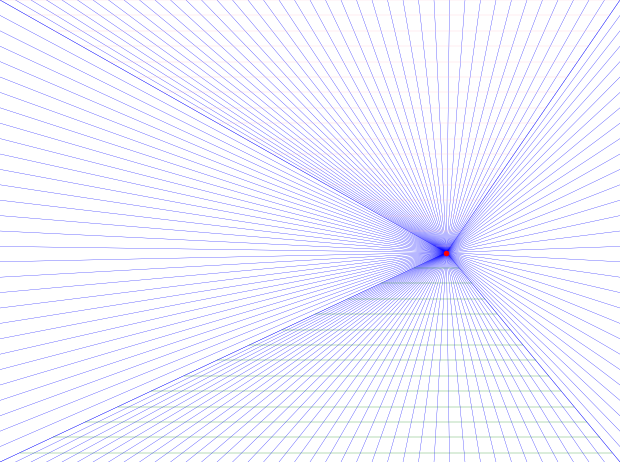
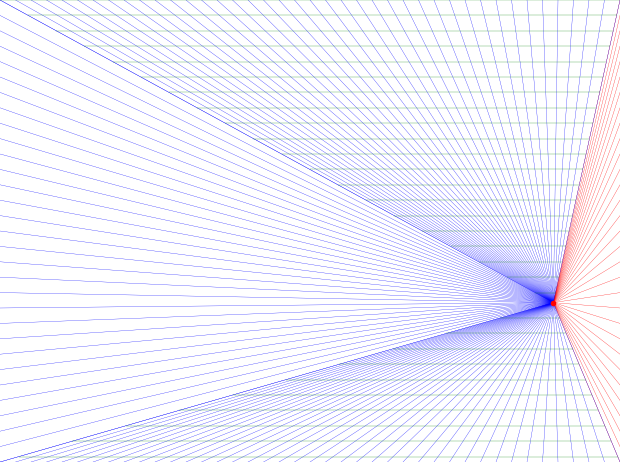
se trabaja en selectores de color

diff --git a/lineapp.py b/lineapp.py
@@ -137,6 +137,7 @@ class LineasDeFugaApp:
         line_thickness = self.line_thickness_scale.get()
         line_alpha = self.line_alpha_scale.get()
         color = self.color_var.get()
+        colorB = self.color_varB.get()
         
         fig, ax = plt.subplots(figsize=(self.width_px / self.dpi, self.height_px / self.dpi), dpi=self.dpi)
         ax.set_xlim(0, self.width_px)
@@ -149,7 +150,7 @@ class LineasDeFugaApp:
         # Dibujar líneas de fuga horizontales
         for y in range(0, self.height_px+1, int(self.dpi * horizontal_spacing)):
             ax.plot([0, x_fuga], [y, y_fuga], color=color, linewidth=line_thickness, alpha=line_alpha)
-            ax.plot([self.width_px, x_fuga], [y, y_fuga], color="blue", linewidth=line_thickness, alpha=line_alpha)
+            ax.plot([self.width_px, x_fuga], [y, y_fuga], color=colorB, linewidth=line_thickness, alpha=line_alpha)
         
         # Dibujar líneas de fuga verticales
         for x in range(0, self.width_px+1, int(self.dpi * vertical_spacing)):
